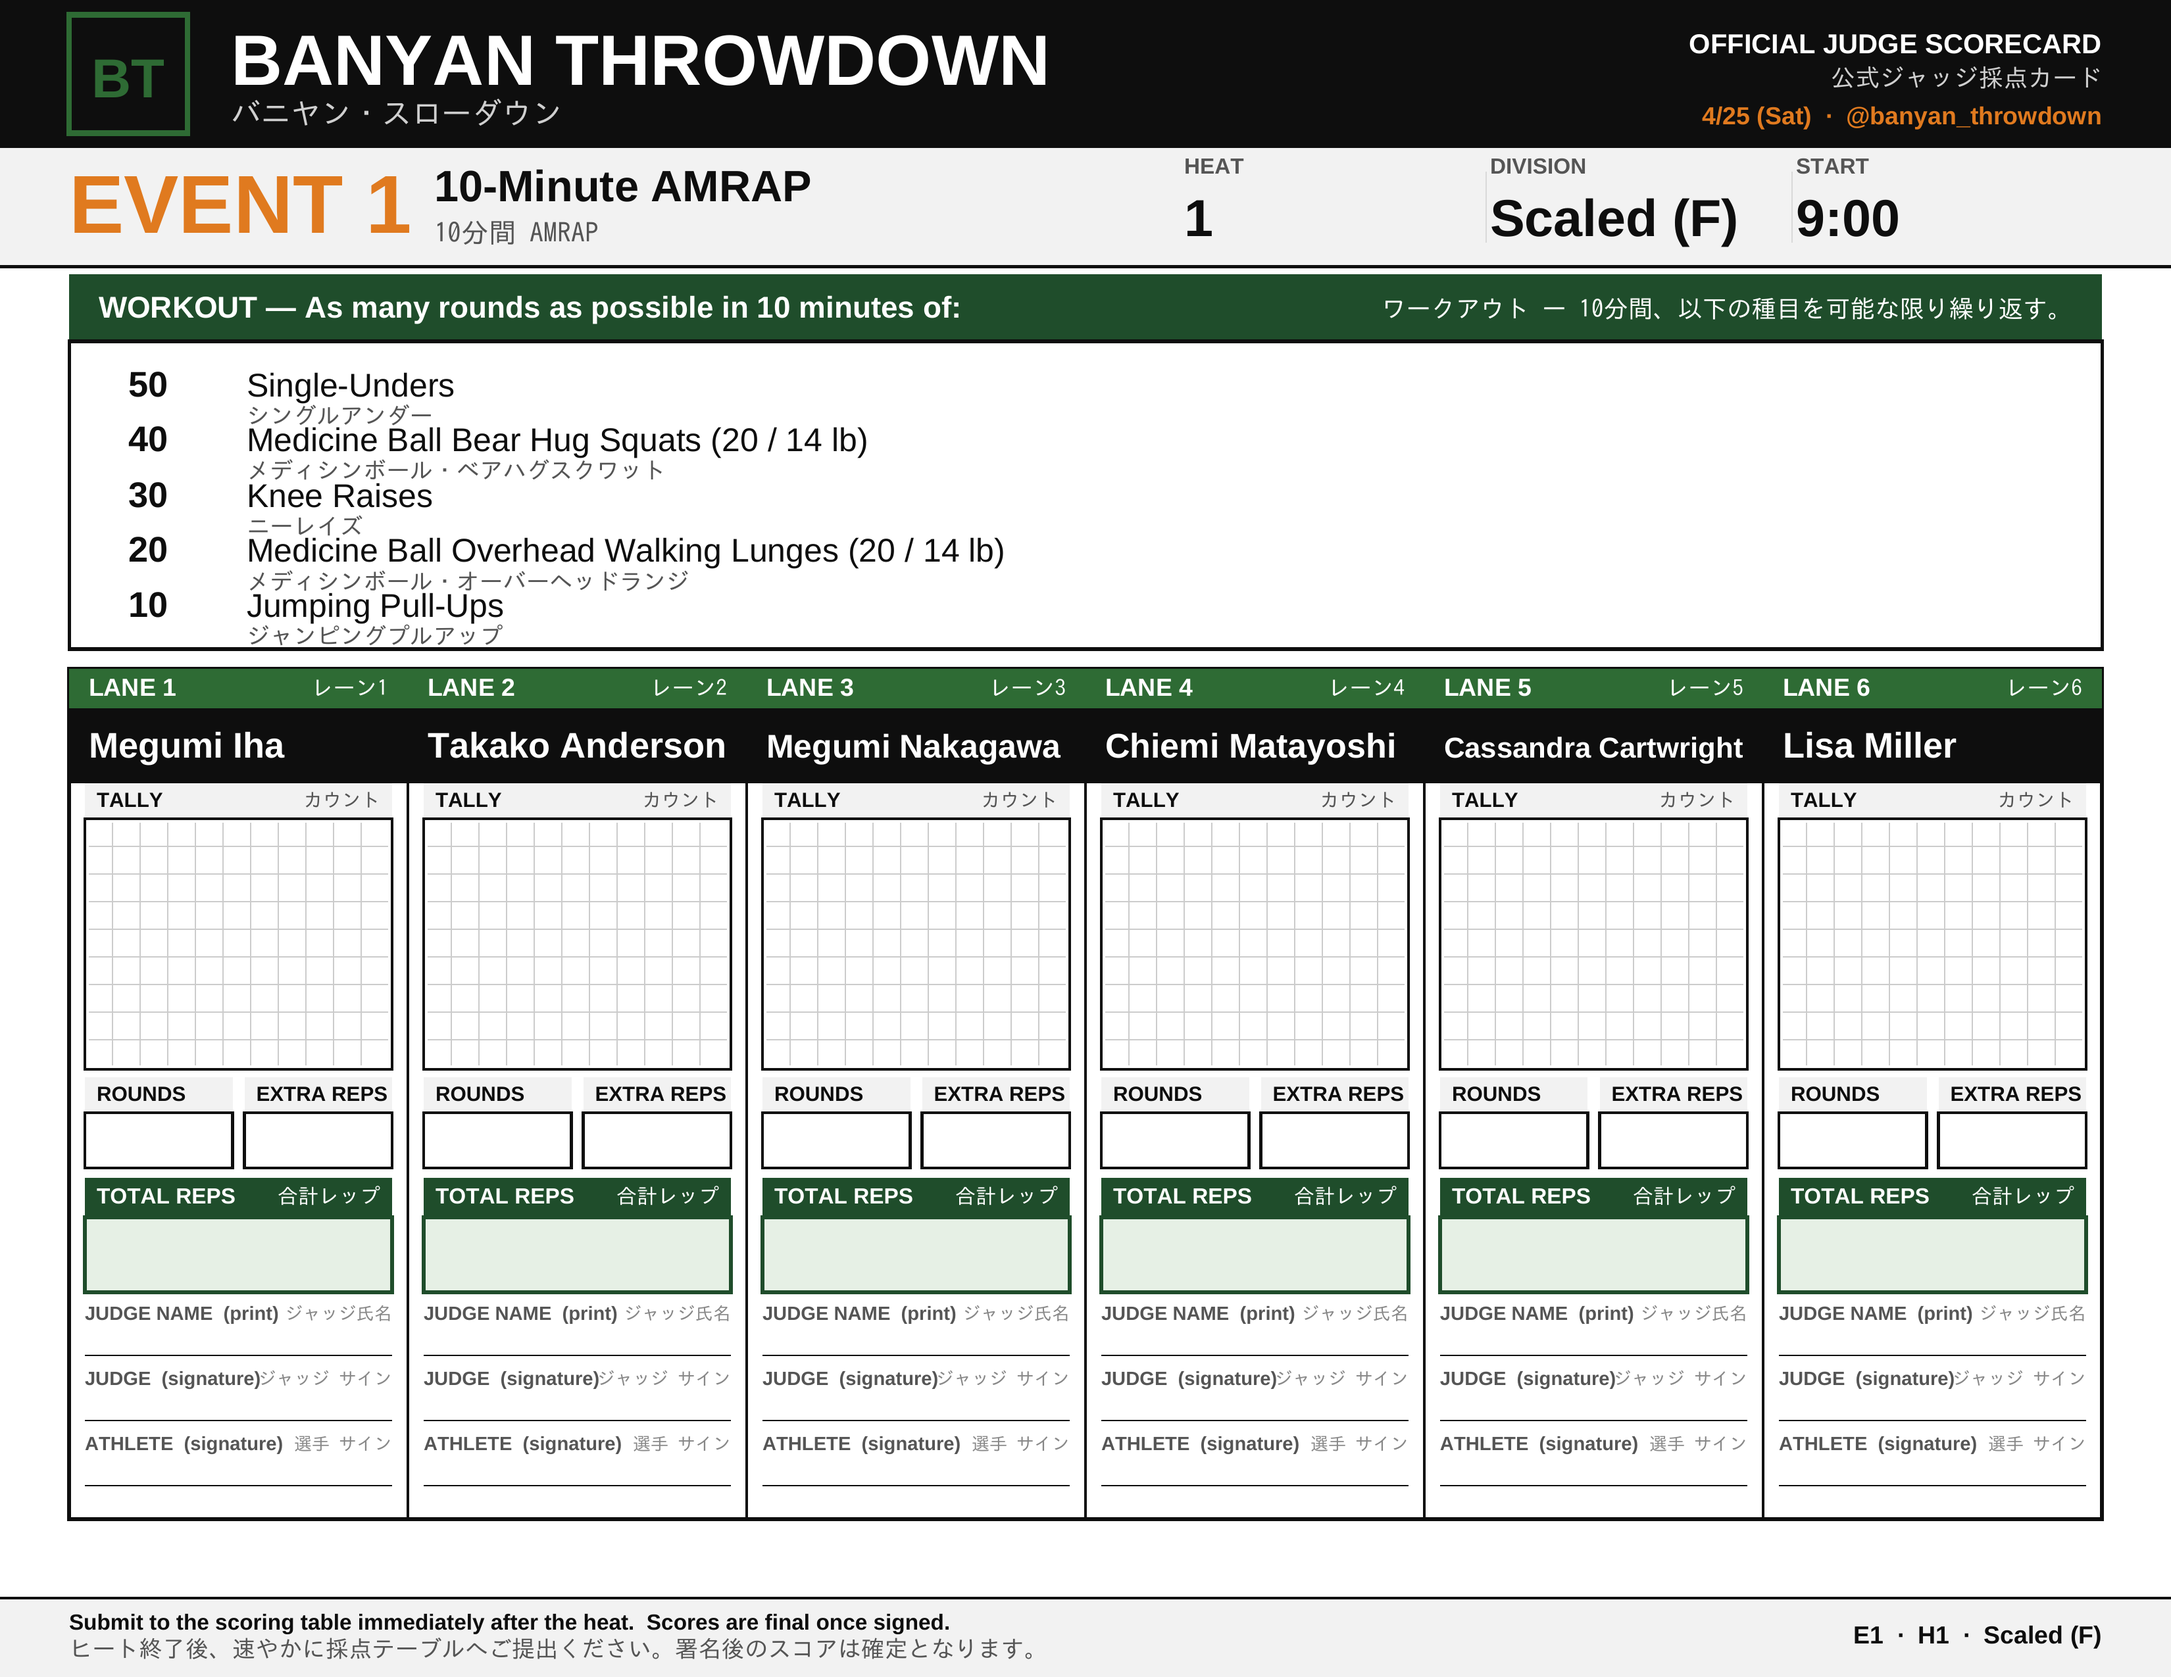
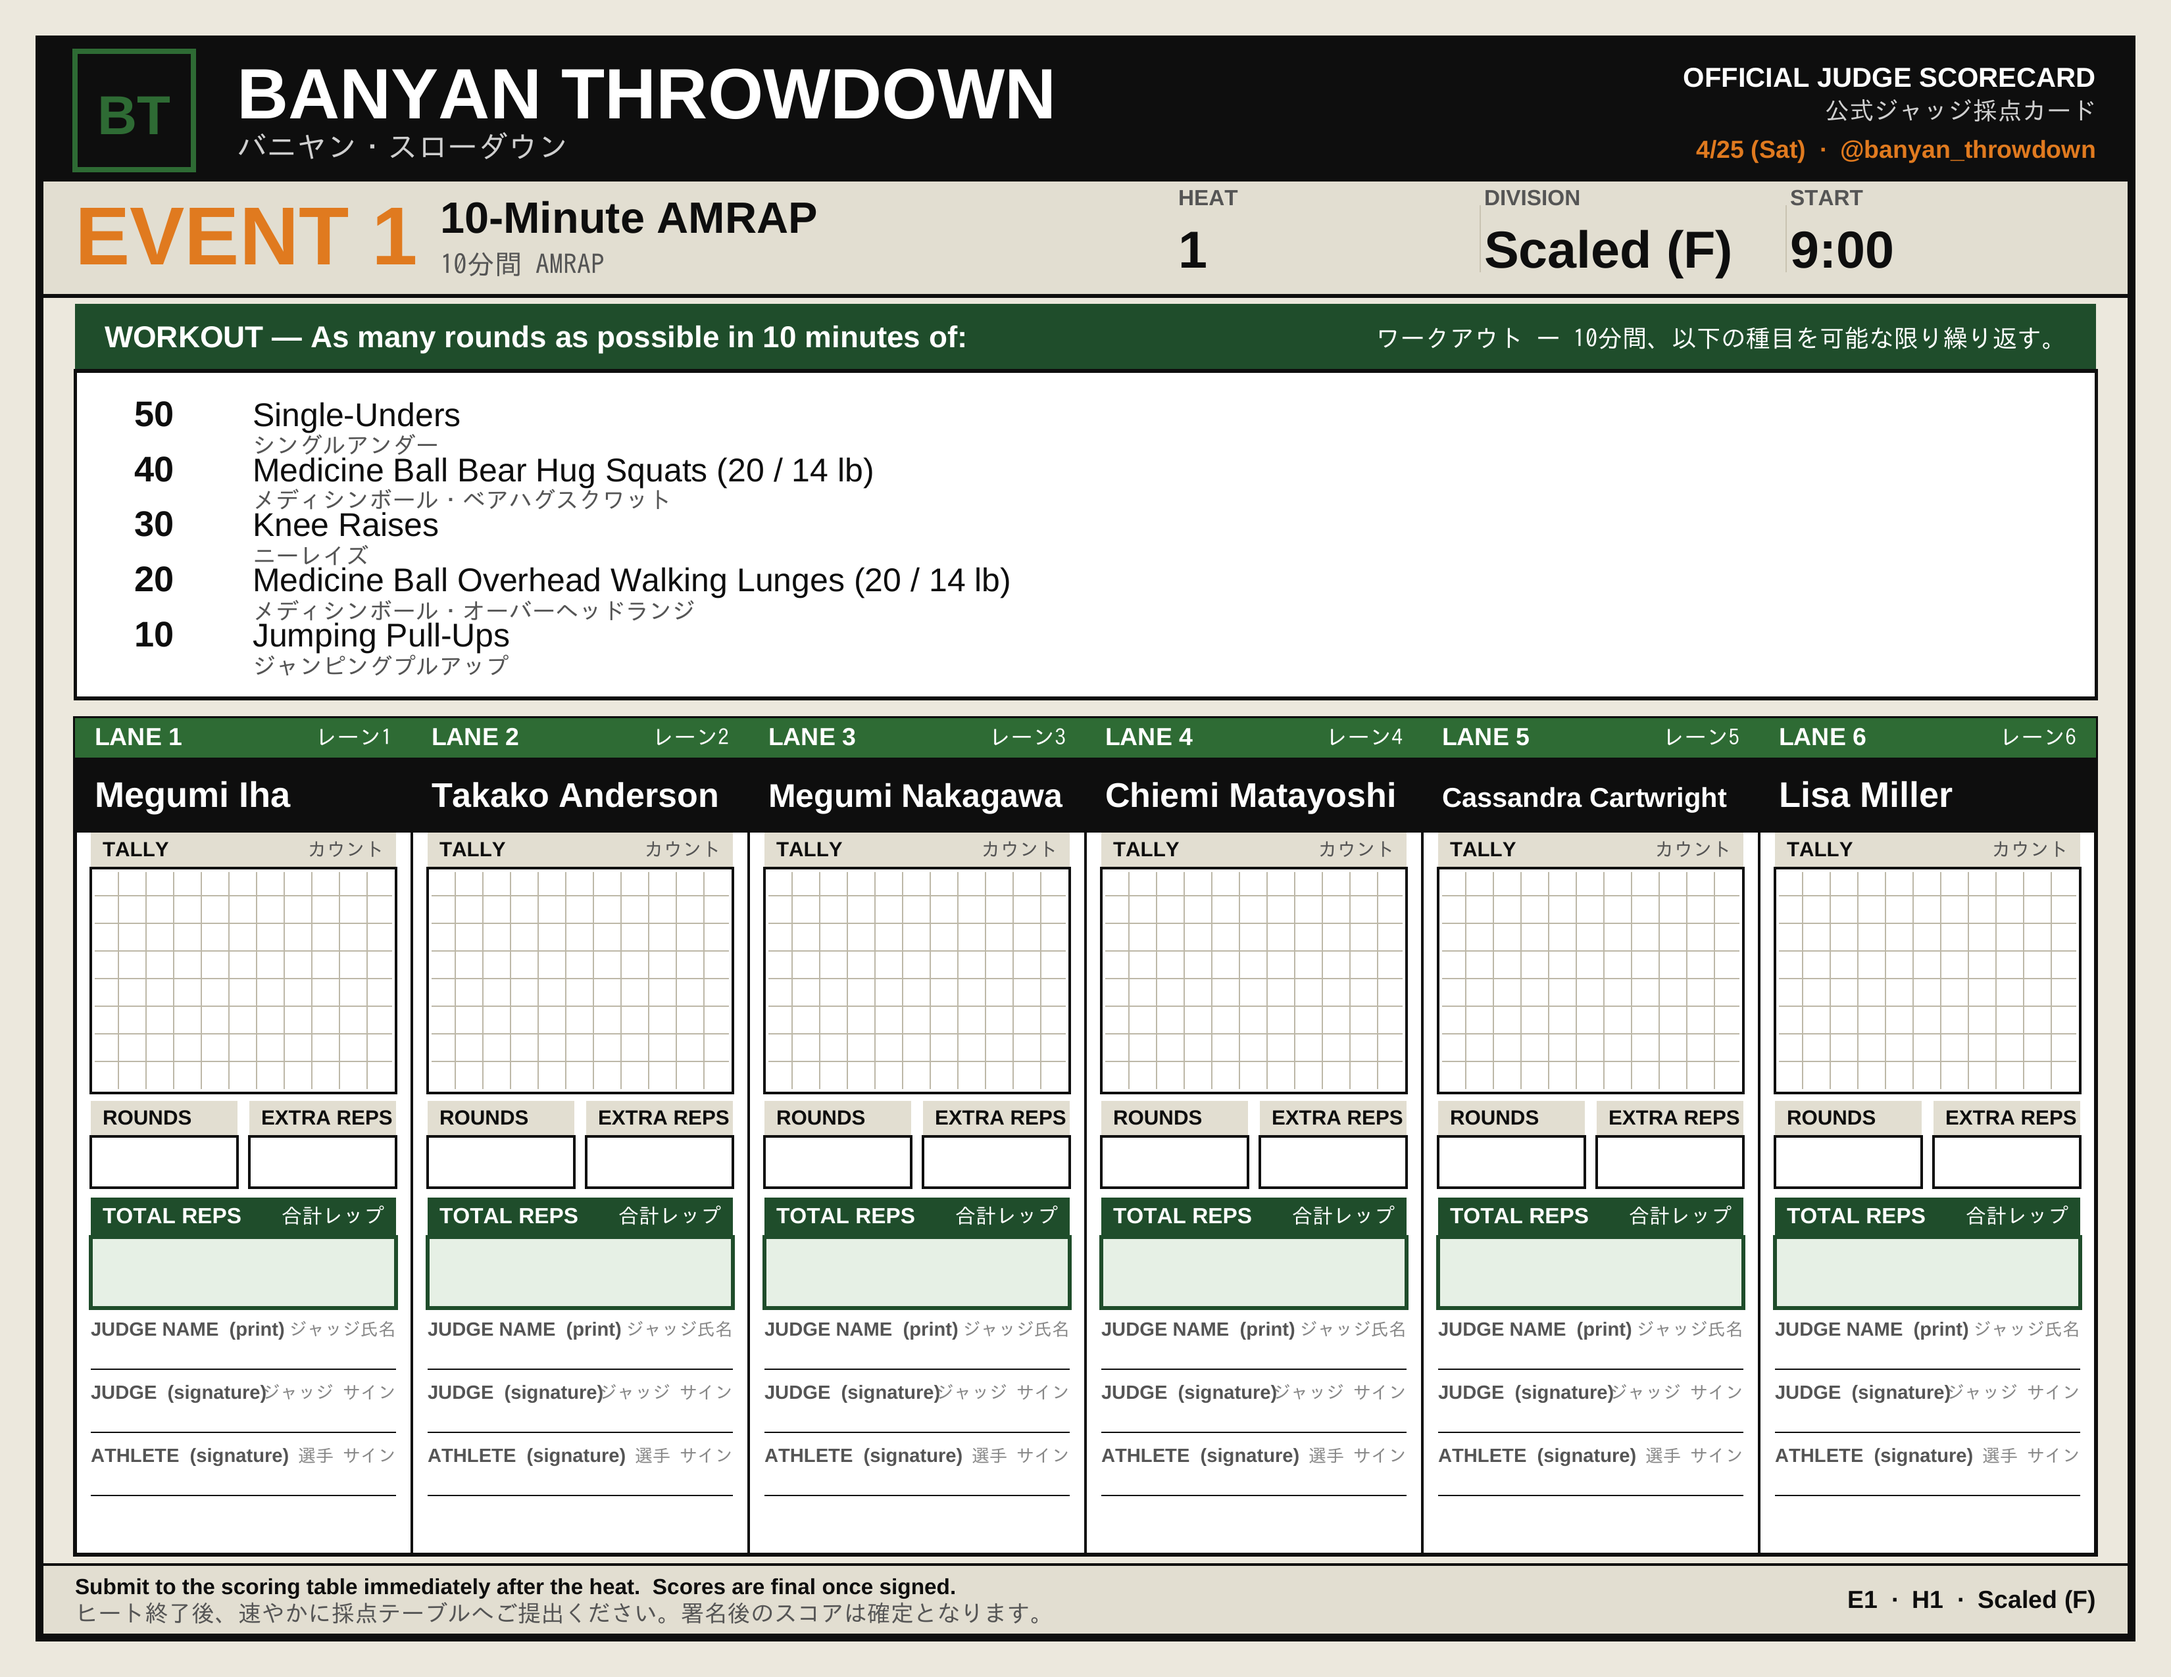
Mockup v4: darker bg, definable outer frame, fix clipped last row
- Warm neutral page background (#ECE8DD) replaces stark white
- Single thick black outer frame (2.8pt) just inside page margins
- Workout panel and lane grid get white fills so scoring zones
  pop against the warm page bg (frame-in-frame feel)
- Bump WORKOUT_H to 2.00" so the 5th movement's Japanese
  subtitle no longer clips under the lane grid
- Tighten TALLY/NUM/TOTAL/SIG heights to fit the grid cleanly
- Inset header/meta/footer bands by OUTER so they sit inside
  the frame, not edge-to-edge

diff --git a/mockup.py b/mockup.py
@@ -23,9 +23,11 @@ BANYAN   = HexColor("#2E6B34")
 BANYAN_D = HexColor("#1F4D2B")   # deep shield green
 BANYAN_L = HexColor("#E6F0E5")   # pale green tint for TOTAL zone
 ACCENT   = HexColor("#E07A1F")   # sunrise orange (logo)
-GRAY_L   = HexColor("#F2F2F2")   # section tint
-GRAY_M   = HexColor("#D9D9D9")
-GRAPH    = HexColor("#CCCCCC")
+PAGE_BG  = HexColor("#ECE8DD")   # warm neutral page background
+GRAY_L   = HexColor("#E2DED1")   # section tint (harmonized with page bg)
+GRAY_M   = HexColor("#C9C3B2")
+GRAPH    = HexColor("#BDB8A8")
+WHITE_B  = HexColor("#FFFFFF")   # true white for score boxes
 
 pdfmetrics.registerFont(
     TTFont("IPAGothic", "/usr/share/fonts/opentype/ipafont-gothic/ipag.ttf")
@@ -33,7 +35,8 @@ pdfmetrics.registerFont(
 JP = "IPAGothic"
 
 PAGE_W, PAGE_H = landscape(letter)
-M = 0.35 * inch
+OUTER = 0.20 * inch     # outer page frame inset
+M = 0.38 * inch         # content margin (inside the frame)
 
 lanes = [
     ("1", "Megumi Iha"),
@@ -56,28 +59,37 @@ movements = [
 c = canvas.Canvas(OUT, pagesize=landscape(letter))
 
 # ============================================================
+# PAGE BACKGROUND (warm neutral — not brown, not stark white)
+# ============================================================
+c.setFillColor(PAGE_BG)
+c.rect(0, 0, PAGE_W, PAGE_H, fill=1, stroke=0)
+
+# ============================================================
 # GEOMETRY
 # ============================================================
-HEADER_H  = 0.75 * inch
-META_H    = 0.60 * inch
-WORKOUT_H = 1.90 * inch
+HEADER_H  = 0.72 * inch
+META_H    = 0.58 * inch
+WORKOUT_H = 2.00 * inch
 GAP       = 0.10 * inch
-FOOTER_H  = 0.45 * inch
+FOOTER_H  = 0.42 * inch
 
-y_header_b  = PAGE_H - HEADER_H
+page_top    = PAGE_H - OUTER     # everything lives under this
+page_bot    = OUTER
+y_header_b  = page_top - HEADER_H
 y_meta_b    = y_header_b - META_H
 y_wo_t      = y_meta_b - 0.04 * inch
 y_wo_b      = y_wo_t - WORKOUT_H
 y_grid_t    = y_wo_b - GAP
-y_grid_b    = M + FOOTER_H
+y_grid_b    = page_bot + FOOTER_H
 
 # ============================================================
 # HEADER BAND (shield-black with banyan stripe)
 # ============================================================
 c.setFillColor(INK)
-c.rect(0, y_header_b, PAGE_W, HEADER_H, fill=1, stroke=0)
+c.rect(OUTER, y_header_b, PAGE_W - 2*OUTER, HEADER_H, fill=1, stroke=0)
 c.setFillColor(BANYAN)
-c.rect(0, y_header_b - 0.08 * inch, PAGE_W, 0.08 * inch, fill=1, stroke=0)
+c.rect(OUTER, y_header_b - 0.08 * inch, PAGE_W - 2*OUTER, 0.08 * inch,
+       fill=1, stroke=0)
 
 # logo
 logo_size = 0.60 * inch
@@ -112,7 +124,7 @@ c.drawRightString(PAGE_W - M, y_header_b + 0.12 * inch,
 # META ROW
 # ============================================================
 c.setFillColor(GRAY_L)
-c.rect(0, y_meta_b, PAGE_W, META_H, fill=1, stroke=0)
+c.rect(OUTER, y_meta_b, PAGE_W - 2*OUTER, META_H, fill=1, stroke=0)
 
 meta_y_mid = y_meta_b + META_H / 2
 
@@ -140,7 +152,7 @@ for i, (label, val) in enumerate(meta):
     bx += block_w
 
 c.setStrokeColor(INK); c.setLineWidth(1.2)
-c.line(0, y_meta_b, PAGE_W, y_meta_b)
+c.line(OUTER, y_meta_b, PAGE_W - OUTER, y_meta_b)
 
 # ============================================================
 # WORKOUT PANEL — banyan header bar, white body
@@ -156,11 +168,11 @@ c.setFont(JP, 9)
 c.drawRightString(PAGE_W - M - 0.15 * inch, y_wo_t - 0.22 * inch,
                   "ワークアウト ー 10分間、以下の種目を可能な限り繰り返す。")
 
-# body
+# body (white fill so movement list stands out on warm page bg)
 body_t = y_wo_t - wh_h
 body_b = y_wo_b
-c.setStrokeColor(INK); c.setLineWidth(1.2)
-c.rect(M, body_b, PAGE_W - 2*M, body_t - body_b, stroke=1, fill=0)
+c.setFillColor(WHITE_B); c.setStrokeColor(INK); c.setLineWidth(1.2)
+c.rect(M, body_b, PAGE_W - 2*M, body_t - body_b, stroke=1, fill=1)
 # (redraw top border aligned with the green strip)
 c.setFillColor(INK); c.setFont("Helvetica-Bold", 12)
 
@@ -181,9 +193,9 @@ n = len(lanes)
 col_w = (PAGE_W - 2*M) / n
 grid_h = y_grid_t - y_grid_b
 
-# outer frame
-c.setStrokeColor(INK); c.setLineWidth(1.5)
-c.rect(M, y_grid_b, PAGE_W - 2*M, grid_h, stroke=1, fill=0)
+# outer frame (white fill so lane interiors pop against warm page bg)
+c.setFillColor(WHITE_B); c.setStrokeColor(INK); c.setLineWidth(1.5)
+c.rect(M, y_grid_b, PAGE_W - 2*M, grid_h, stroke=1, fill=1)
 
 # column headers — banyan-green lane tab on top of black name strip
 tab_h = 0.20 * inch    # green tab with LANE #
@@ -220,10 +232,10 @@ for i in range(1, n):
 body_top = y_grid_t - head_h
 
 # budget per field (sums to ~ body_h)
-TALLY_H  = 1.45 * inch
-NUM_H    = 0.46 * inch
-TOTAL_H  = 0.58 * inch
-SIG_H    = 0.33 * inch
+TALLY_H  = 1.32 * inch
+NUM_H    = 0.44 * inch
+TOTAL_H  = 0.56 * inch
+SIG_H    = 0.32 * inch
 
 def section_label(x_l, y_top, width, height, text, jp_text, tint=None):
     """Colored/tinted section label bar."""
@@ -277,11 +289,11 @@ for i in range(n):
     c.setFillColor(INK); c.setFont("Helvetica-Bold", 7.5)
     c.drawString(inner_l + 0.06 * inch, y - 0.12 * inch, "ROUNDS")
     c.drawString(inner_l + half + 0.12 * inch, y - 0.12 * inch, "EXTRA REPS")
-    # number boxes
-    c.setStrokeColor(INK); c.setLineWidth(1.0)
-    c.rect(inner_l, y - NUM_H, half, NUM_H - 0.18 * inch, stroke=1, fill=0)
+    # number boxes (white fill for write-on clarity)
+    c.setFillColor(WHITE_B); c.setStrokeColor(INK); c.setLineWidth(1.0)
+    c.rect(inner_l, y - NUM_H, half, NUM_H - 0.18 * inch, stroke=1, fill=1)
     c.rect(inner_l + half + 0.06 * inch, y - NUM_H, half, NUM_H - 0.18 * inch,
-           stroke=1, fill=0)
+           stroke=1, fill=1)
     y = y - NUM_H - 0.05 * inch
 
     # --- TOTAL REPS (banyan-filled header + tinted green fill box) ---
@@ -316,22 +328,31 @@ for i in range(n):
         y -= SIG_H
 
 # ============================================================
-# FOOTER  (shaded band)
+# FOOTER  (shaded band, inset within the outer frame)
 # ============================================================
+footer_top = page_bot + FOOTER_H - 0.05 * inch
 c.setFillColor(GRAY_L)
-c.rect(0, 0, PAGE_W, FOOTER_H - 0.05 * inch, fill=1, stroke=0)
+c.rect(OUTER, page_bot, PAGE_W - 2*OUTER, FOOTER_H - 0.05 * inch,
+       fill=1, stroke=0)
 c.setStrokeColor(INK); c.setLineWidth(1.0)
-c.line(0, FOOTER_H - 0.05 * inch, PAGE_W, FOOTER_H - 0.05 * inch)
+c.line(OUTER, footer_top, PAGE_W - OUTER, footer_top)
 
 c.setFillColor(INK); c.setFont("Helvetica-Bold", 8)
-c.drawString(M, 0.24 * inch,
+c.drawString(M, page_bot + 0.22 * inch,
              "Submit to the scoring table immediately after the heat.  "
              "Scores are final once signed.")
 c.setFillColor(MUTED); c.setFont(JP, 8.5)
-c.drawString(M, 0.10 * inch,
+c.drawString(M, page_bot + 0.08 * inch,
              "ヒート終了後、速やかに採点テーブルへご提出ください。署名後のスコアは確定となります。")
 c.setFillColor(INK); c.setFont("Helvetica-Bold", 9)
-c.drawRightString(PAGE_W - M, 0.17 * inch, "E1  ·  H1  ·  Scaled (F)")
+c.drawRightString(PAGE_W - M, page_bot + 0.15 * inch, "E1  ·  H1  ·  Scaled (F)")
+
+# ============================================================
+# OUTER FRAME  (drawn last, sits on top of everything)
+# ============================================================
+c.setStrokeColor(INK); c.setLineWidth(2.8)
+c.rect(OUTER, OUTER, PAGE_W - 2*OUTER, PAGE_H - 2*OUTER,
+       stroke=1, fill=0)
 
 c.showPage()
 c.save()
